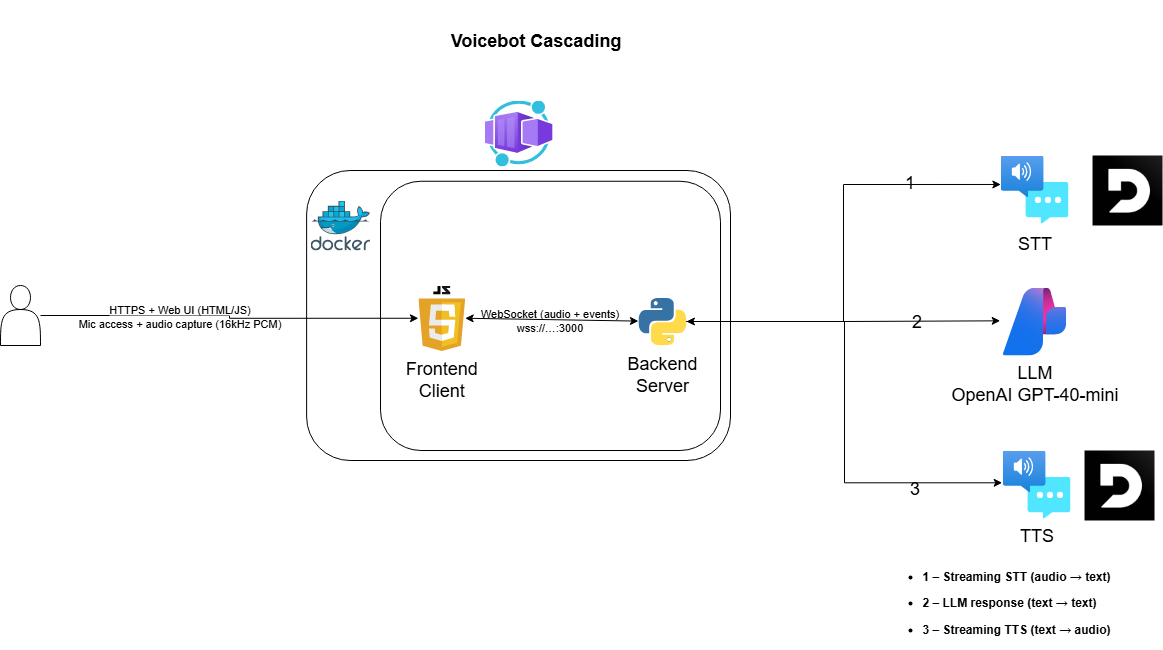
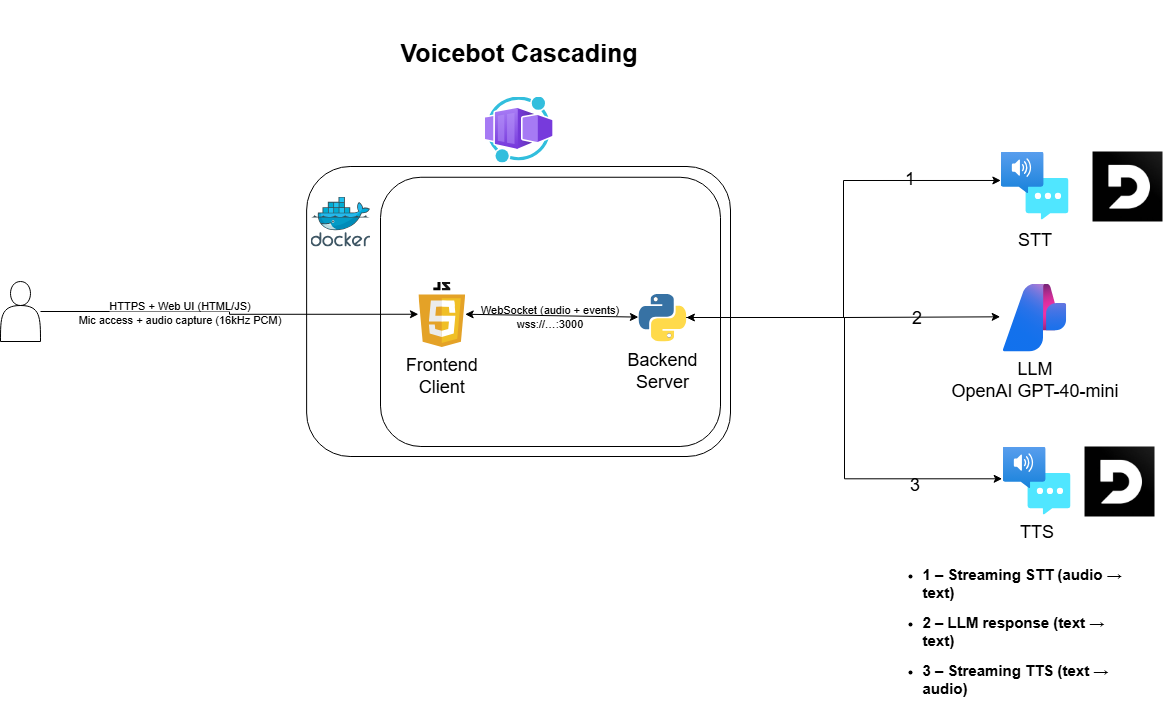
updated daig

diff --git a/README.md b/README.md
@@ -76,7 +76,7 @@ The **Voice Agent** is a real-time voice assistant that enables natural, convers
 ## 🏗 Architecture
 
 ```
-   <img src="images/Voicebot-Cascading-architecture-diag.svg" alt="Architecture Diagram"/>
+   <img src="images/Voicebot-Cascading-architecture-diag.png" alt="Architecture Diagram"/>
 
                     DATA FLOW:
 
